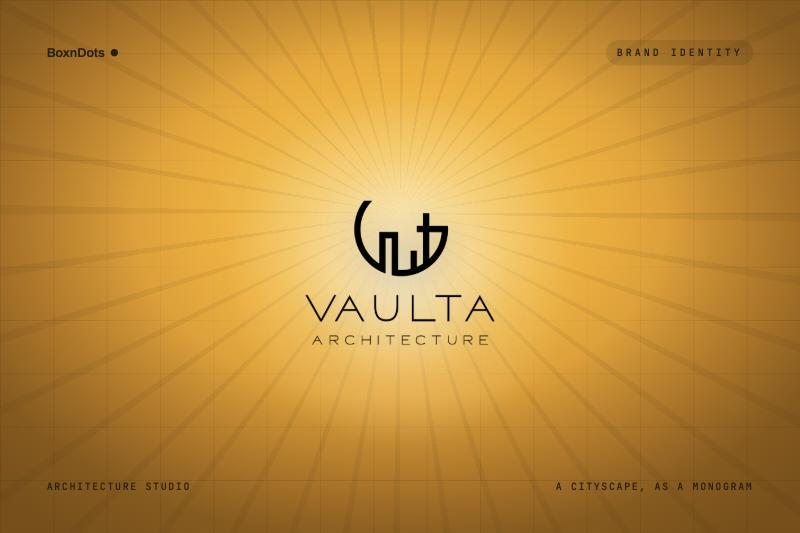
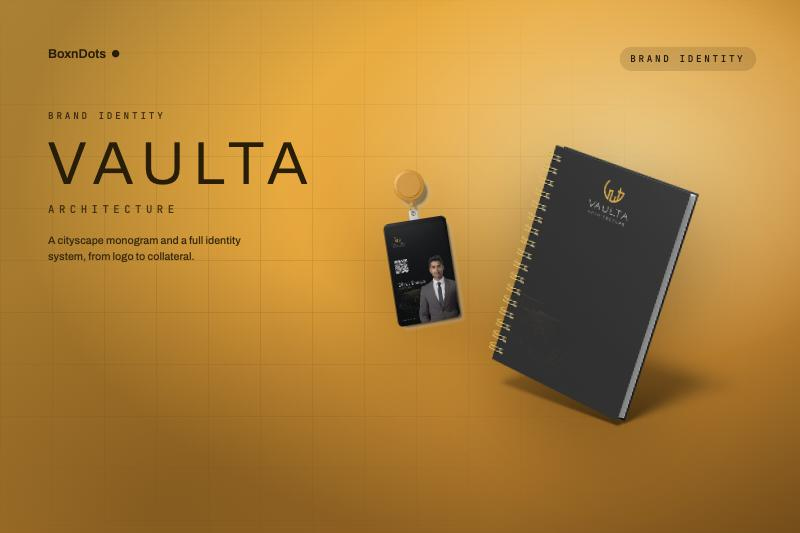
Redesign VAULTA cover as a brand mockup; add motion graphics to video
- VAULTA cover: replace the flat gold logo with a warm amber scene of the
  real brand collateral (notebook + ID badge) floating in 3D with shadow,
  matching the depth of the Skedo and video covers.
- Video case study: surface motion graphics throughout (hero kicker and
  lead, the Motion graphics & VFX capability, domain tags, Work card copy).

diff --git a/work/video.html b/work/video.html
@@ -4,7 +4,7 @@
   <meta charset="UTF-8" />
   <meta name="viewport" content="width=device-width, initial-scale=1.0" />
   <title>Video Editing — Post-Production Case Study · BoxnDots</title>
-  <meta name="description" content="Case study: film and video editing by our expert in-house team. A reel of music videos, short films and teasers, plus narrative, colour and motion work for directors and brands." />
+  <meta name="description" content="Case study: film and video editing plus motion graphics by our expert in-house team. A reel of music videos, short films and teasers, plus narrative editing, colour and motion for directors and brands." />
   <link rel="icon" type="image/svg+xml" href="../assets/vectors/favicon.svg" />
   <link rel="preconnect" href="https://fonts.googleapis.com" />
   <link rel="preconnect" href="https://fonts.gstatic.com" crossorigin />
@@ -178,9 +178,9 @@
   <!-- HERO -->
   <section class="hero">
     <div class="cw">
-      <div class="hero__kicks rv"><span class="mono kick">Video Editing</span><span class="hero__dot"></span><span class="mono kick--mut">Post-production · All formats</span></div>
+      <div class="hero__kicks rv"><span class="mono kick">Video Editing & Motion</span><span class="hero__dot"></span><span class="mono kick--mut">Post-production · All formats</span></div>
       <h1 class="hero__t rv">I edit for emotion.<br/>I <em>cut</em> for impact.</h1>
-      <p class="hero__lead rv">BoxnDots cuts with an <strong>expert in-house editing team</strong>, 6+ years deep in post across <strong>every kind of content</strong>, from feature and short films to documentaries, music videos, commercials and brand campaigns. From first rough cut to final export, we turn raw footage into stories that connect.</p>
+      <p class="hero__lead rv">BoxnDots cuts with an <strong>expert in-house editing and motion team</strong>, 6+ years deep in post across <strong>every kind of content</strong>, from feature and short films to documentaries, music videos, commercials, brand campaigns and motion graphics. From first rough cut to final export, we turn raw footage into stories that connect.</p>
       <div class="hero__row rv">
         <a class="btnx btnx--accent" href="#reel">Watch the reel</a>
         <a class="btnx btnx--ghost" href="#" data-book>Book a call</a>
@@ -221,7 +221,7 @@
       <div class="caps">
         <div class="cap rv"><div class="cap__i">🎞</div><div class="cap__t">Narrative editing</div><div class="cap__p">Feature and short films: pacing, structure and emotional storytelling from first cut to final.</div></div>
         <div class="cap rv"><div class="cap__i">🎨</div><div class="cap__t">Colour & finishing</div><div class="cap__p">DaVinci Resolve grading, look development and clean deliverables ready for any screen.</div></div>
-        <div class="cap rv"><div class="cap__i">✨</div><div class="cap__t">Motion & VFX</div><div class="cap__p">After Effects titles, montages and visual effects that lift the story without stealing it.</div></div>
+        <div class="cap rv"><div class="cap__i">✨</div><div class="cap__t">Motion graphics & VFX</div><div class="cap__p">After Effects motion graphics, animated titles, lower thirds, montages and visual effects that lift the story without stealing it.</div></div>
         <div class="cap rv"><div class="cap__i">🎵</div><div class="cap__t">Music videos</div><div class="cap__p">Rhythm-first edits synced to the beat, energetic cuts built for artists and labels.</div></div>
         <div class="cap rv"><div class="cap__i">🎥</div><div class="cap__t">Documentaries</div><div class="cap__p">Honest, character-driven edits that respect the footage and find the truth in it.</div></div>
         <div class="cap rv"><div class="cap__i">📣</div><div class="cap__t">Commercials & brand</div><div class="cap__p">Punchy campaign edits and corporate films crafted to convert and stay on brand.</div></div>
@@ -244,6 +244,7 @@
         <span class="tool">Music videos</span>
         <span class="tool">Commercials</span>
         <span class="tool">Brand campaigns</span>
+        <span class="tool">Motion graphics</span>
         <span class="tool">Social & reels</span>
         <span class="tool">Live sessions</span>
       </div>

diff --git a/index.html b/index.html
@@ -136,7 +136,7 @@
             <div class="proj__body">
               <span class="eyebrow">VIDEO EDITING</span>
               <h3>Cut for impact</h3>
-              <p>Film and video post-production by our expert team. A reel of music videos, a live session, a short film and teasers, plus narrative, colour and motion work.</p>
+              <p>Film and video post-production by our expert team. A reel of music videos, a live session, a short film and teasers, plus narrative editing, colour, motion graphics and VFX.</p>
               <a class="link" href="work/video.html">View the case study &rarr;</a>
             </div>
           </article>
